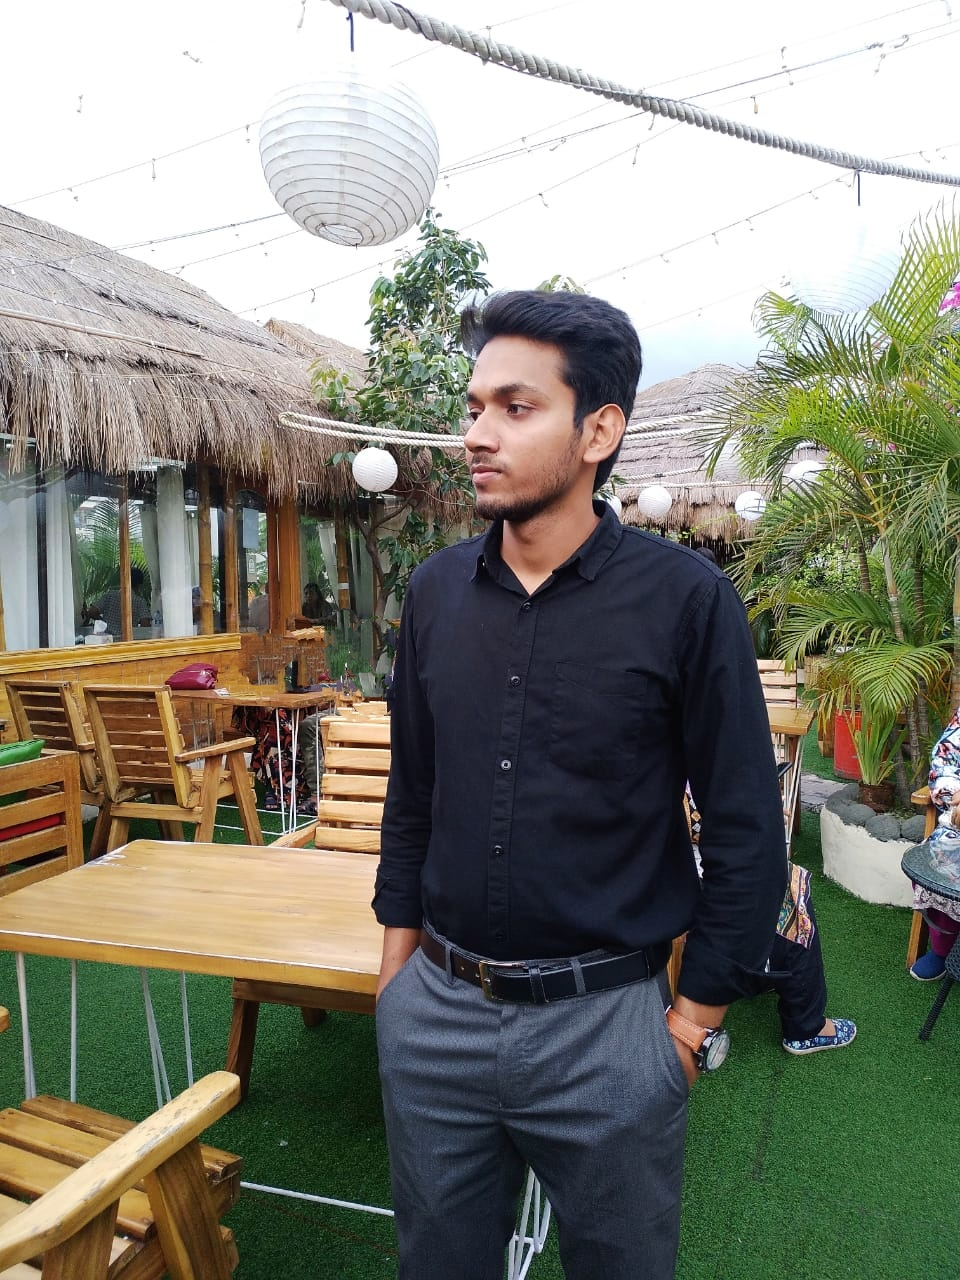
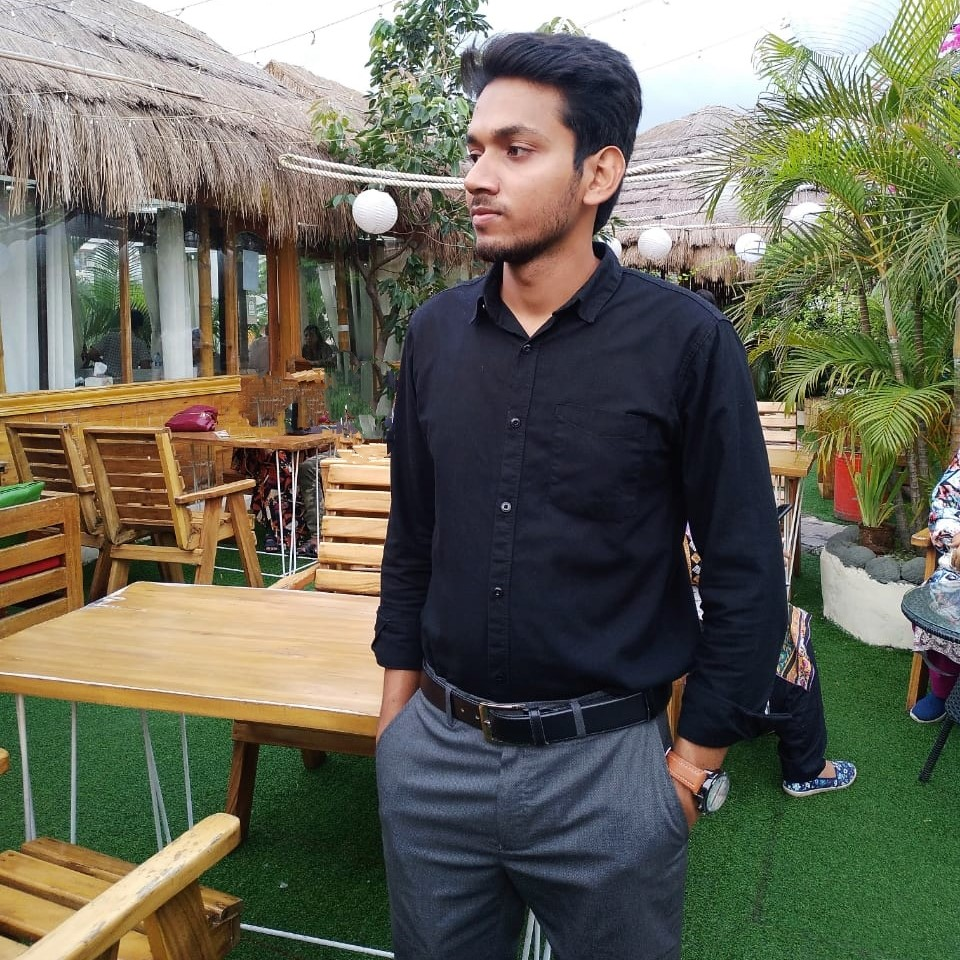
new project added

diff --git a/src/components/ProjectCards.jsx b/src/components/ProjectCards.jsx
@@ -31,6 +31,16 @@ const portfolioData = [
     ],
   },
   {
+    title: "Attire Avenue",
+    type: "A Modern Clothing Store",
+    description:
+      "Attire Avenue(clone of Fabrilife.com) is an e-commerce application frontend (completely responsive) which contains a variety of clothing items. Users can browse through the collection, add items to their cart, and proceed to checkout. The app also features a search function and a filter for sorting products.",
+    image: "/assets/images/attireavenue.png",
+    url: "https://attire-avenue-shop.vercel.app/",
+    github: "",
+    tech: ["NextJS", "Tailwind"],
+  },
+  {
     title: "Gadget Hub",
     type: "Ecommerce",
     description:
@@ -189,15 +199,17 @@ function ProjectCards() {
                         </span>
                       </Link>
                     )}
-                    <Link
-                      href={data.github}
-                      target="_blank"
-                      rel="noopener noreferrer"
-                    >
-                      <span className="bg-black text-white px-4 py-2 rounded shadow hover:bg-gray-900 transition flex items-center gap-2">
-                        <FaGithub size={32} />
-                      </span>
-                    </Link>
+                    {data.github.length > 5 && (
+                      <Link
+                        href={data.github}
+                        target="_blank"
+                        rel="noopener noreferrer"
+                      >
+                        <span className="bg-black text-white px-4 py-2 rounded shadow hover:bg-gray-900 transition flex items-center gap-2">
+                          <FaGithub size={32} />
+                        </span>
+                      </Link>
+                    )}
                   </div>
                 </div>
               </motion.div>

diff --git a/src/components/HeroSection.jsx b/src/components/HeroSection.jsx
@@ -156,7 +156,7 @@ function HeroSection() {
         <div className="pt-10 pl-12 z-10">
           <div className="animate-circlepulse w-[60%] h-[60%] md:bg-contain md:h-auto lg:w-[300px] lg:h-[300px] border rounded-full border-fuchsia-800/50 ">
             <Image
-              src={"/assets/images/hero new.jpg"}
+              src={"/assets/images/hero new2.jpg"}
               alt=""
               height={300}
               width={300}
